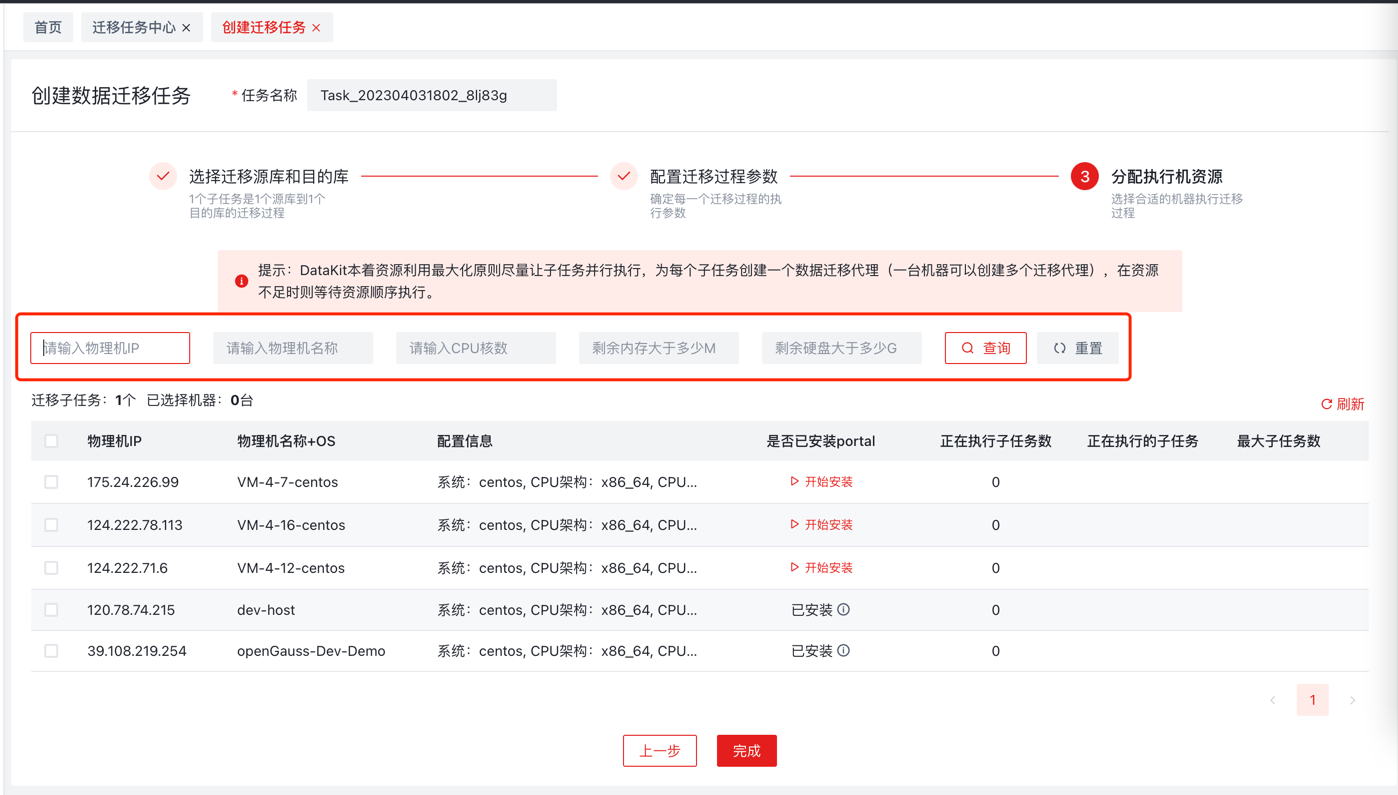
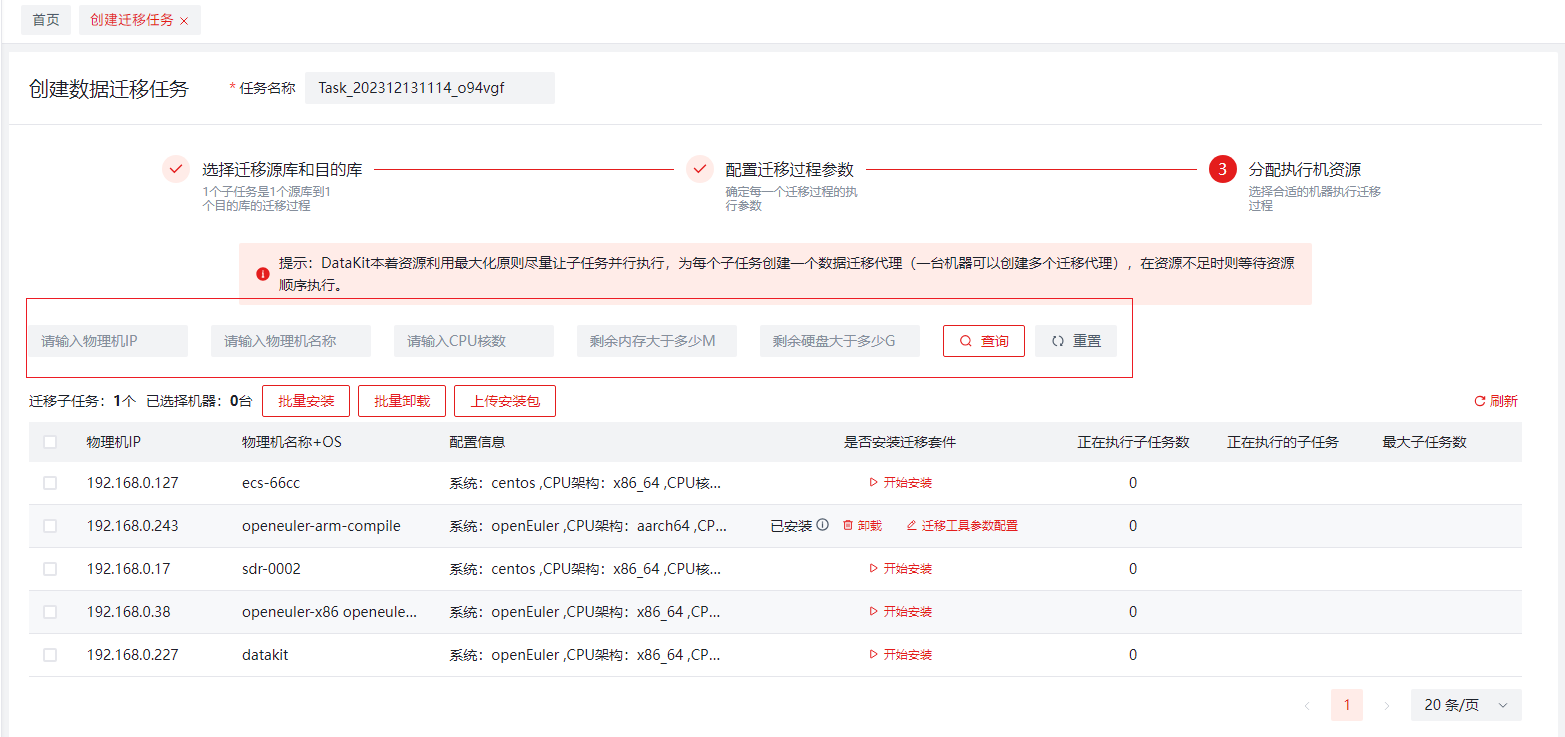
修改问题： 资料描述添加

diff --git a/plugins/data-migration/doc/DataKit Product Manual - Data Migration .md b/plugins/data-migration/doc/DataKit Product Manual - Data Migration .md
@@ -191,10 +191,11 @@ select rolsystemadmin from PG_ROLES where rolname='用户名';
 
 
 ##### **分配执行机资源**
-该步骤是配置任务运行的机器列表，数据来源于datakit平台资源中心的设备管理。机器会检测是否安装了底层迁移工具，如果未安装，可以在该步骤给机器安装迁移工具，安装时需要选择安装用户以及安装目录；未安装迁移工具的机器不能执行迁移任务。
-迁移工具的安装用户即为迁移任务的执行用户，该用户必须是非root用户，因此需要在datakit平台资源中心的设备管理中，添加非root用户。
+该步骤是配置任务运行的机器列表，数据来源于datakit平台资源中心的设备管理。机器会检测是否安装了底层迁移工具，如果未安装，可以在该步骤给机器安装迁移工具，安装时需要选择安装用户以及安装目录，对于kafka、zookeeper 
+、schemaRegistory等第三方工具的安装可以选择绑定已安装的，也可以选择本机新安装 ；未安装迁移工具的机器不能执行迁移任务。 迁移工具的安装用户即为迁移任务的执行用户，该用户必须是非root用户，因此需要在datakit平台资源中心的设备管理中，添加非root用户。
 ![platform-login](./_resources/06.png)
 ![platform-login](./_resources/07.png)
+![platform-login](./_resources/020.png)
 该页面可以根据执行机器的IP、物理机名称、CPU核数、剩余内存空间、剩余硬盘空间进行筛选。
 ![img.png](_resources/013.png)
 物理机IP：模糊匹配机器IP包含输入内容的机器。
@@ -207,6 +208,8 @@ CPU核数：筛选配置信息中CPU核数等于输入核数的机器。
 
 硬盘空间：筛选配置信息中剩余硬盘容量大于输入数量的机器。
 
+点击迁移工具参数配置按钮后会弹出此页面，此页面用于配置迁移工具的参数，支持新增、修改、查看，只有新增的参数支持删除，工具自带的参数不支持删除。
+![platform-login](./_resources/021.png)
 点击完成按钮后，任务将创建完成，随后将跳转到迁移任务中心页面。
 
 #### 任务启动
